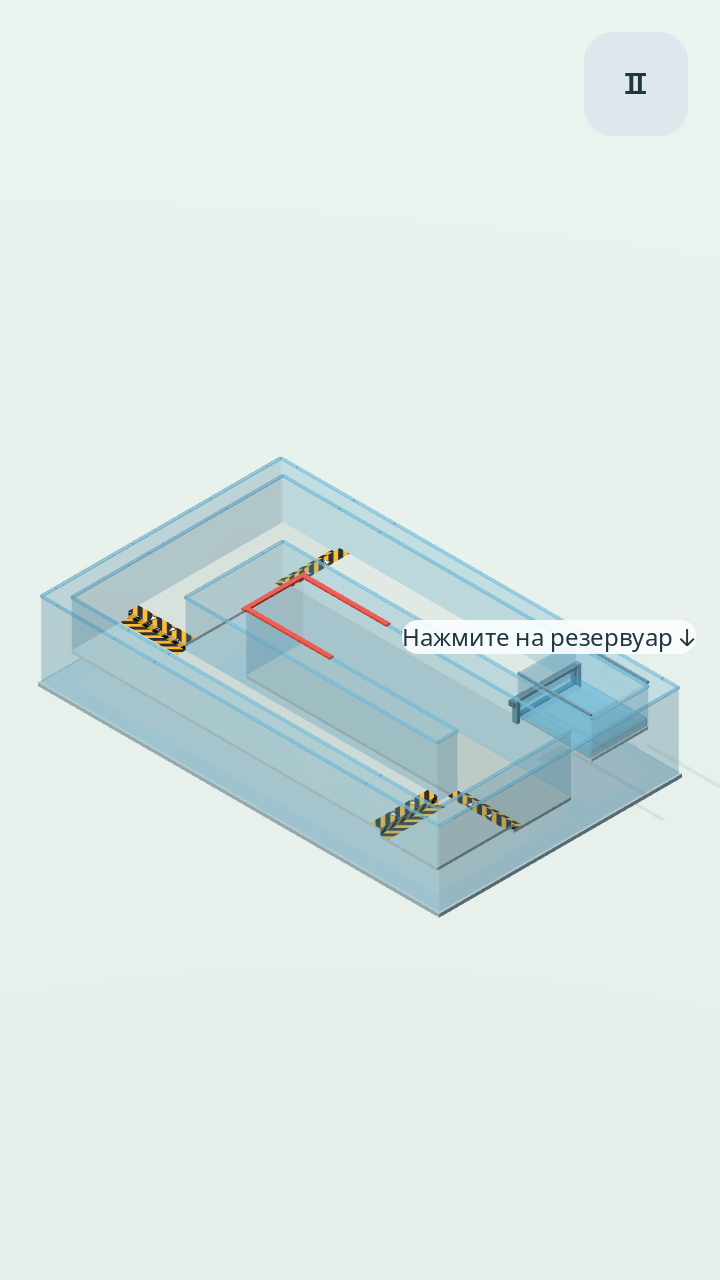
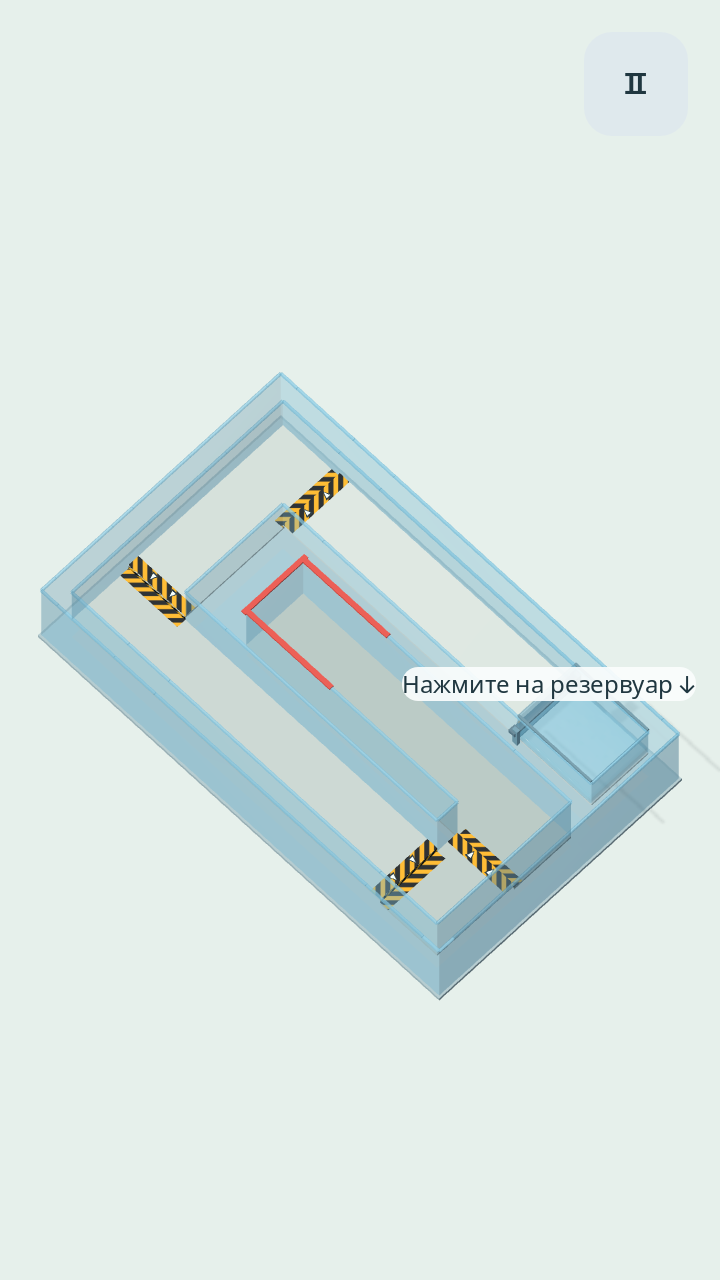
Raise rotation camera and soften water shading

Changed region(s): [[0.0306, 0.2812, 0.9472, 0.7812]]

diff --git a/docs/SPECIFICATION.ru.md b/docs/SPECIFICATION.ru.md
@@ -4,7 +4,7 @@
 
 Игра для Android с управлением жидкостью через наклон мобильного устройства. Игрок меняет направление действия силы тяжести, переливает жидкость по каналам и доставляет её в заданный сосуд. Вода может делиться на потоки, проходить через узкие отверстия, разбрызгиваться, стекать по ступеням, замерзать и испаряться.
 
-**Вода — единственная жидкость десятиуровневого демонстрационного прототипа.** Финальная игра может включать жидкости с различными физическими свойствами и уровни на их смешивание, разделение и взаимодействие. Это часть продуктовой концепции, а не уже реализованная возможность версии 0.8.
+**Вода — единственная жидкость десятиуровневого демонстрационного прототипа.** Финальная игра может включать жидкости с различными физическими свойствами и уровни на их смешивание, разделение и взаимодействие. Это часть продуктовой концепции, а не уже реализованная возможность версии 0.9.
 
 ## Визуальное направление
 
@@ -18,9 +18,9 @@
 4. После удержания требуемого объёма приёмник подсвечивается; поток продолжает доливаться до 0,5 с без заметного пополнения, но не дольше 2 с. До этого окно результата скрыто. Пауза останавливает воду и задержку.
 5. Игрок может перезапустить уровень и попробовать другой маршрут или темп.
 
-Перезапуск и выход доступны в паузе; язык, чувствительность, выбор способа управления и настройка визуального наклона поля — в настройках главного меню. При сворачивании приложения симуляция останавливается. Альтернативный режим вращает сам трёхмерный уровень вокруг вертикальной оси под неподвижной ортографической камерой с истинной изометрией (45° по азимуту, около 35,264° по высоте). Камера не кренится и не меняет масштаб; жест проецируется на плоскость поля. Гравитация вдоль игрового рельефа направлена вниз экрана. Ориентация сохраняется после отпускания и паузы; повтор сбрасывает её. Этот режим помогает при отсутствии датчика; клавиатура предназначена для разработки.
+Перезапуск и выход доступны в паузе; язык, чувствительность, выбор способа управления и настройка визуального наклона поля — в настройках главного меню. При сворачивании приложения симуляция останавливается. Альтернативный режим вращает сам трёхмерный уровень вокруг вертикальной оси под неподвижной ортографической камерой с более высоким ракурсом (45° по азимуту, 65° по высоте). Дно каждого канала текущего уровня видно из центра канала на всём обороте поля. Камера не кренится и не меняет масштаб; жест проецируется на плоскость поля. Гравитация вдоль игрового рельефа направлена вниз экрана. Ориентация сохраняется после отпускания и паузы; повтор сбрасывает её. Этот режим помогает при отсутствии датчика; клавиатура предназначена для разработки.
 
-## Версия 0.8 — первый уровень
+## Версия 0.9 — первый уровень
 
 **«Первый виток»**: трёхмерный террасный спиральный канал с полным оборотом на 360° и центральным сосудом. Маршрут: вниз, вправо, вверх, влево, снова вниз. Диагональные наклоны помогают провести растянутый поток через повороты. Порог победы — 80% частиц воды в приёмнике непрерывно в течение 0,75 с. Верхних ограничений по времени и штрафов нет. У канала четыре перепада высоты по 0,14. Вода может выплеснуться над конечными бортиками. Если остаток меньше 80% исходного объёма, открывается окно повторной попытки.
 
@@ -35,7 +35,7 @@
 - Подготовка с закрытым резервуаром, вылет и вращение крышки выпускного отверстия по нажатию с открытием физического прохода, игра, пауза, победа и повтор. Перезапуск снова закрывает резервуар.
 - Настройки в стиле Material: отдельные карточки языка, управления, чувствительности и обратной связи, крупные зоны касания, переключатели, сегментный выбор управления, ползунок с числом и сенсорная прокрутка без видимой полосы. Возврат в меню закреплён внизу.
 - Собственные мягкие звуки нажатий (тише событий уровня на 6 дБ), открытия, победы и потери; общий выключатель звука и сохранение настроек.
-- Более косой ракурс, голубые кромки бортов, непрерывная жёлто-чёрная разметка верхнего края, вертикальной грани и нижней площадки ступеней с обратным направлением штриховки после перепада и стрелками спуска и градация цвета дна по высоте. Только открытые грани геометрии; менее контрастные тени без дублирования поверхностей. Вода не отбрасывает и не принимает тени; кромки приёмника не затемняют жидкость.
+- Более косой ракурс, голубые кромки бортов, непрерывная жёлто-чёрная разметка верхнего края, вертикальной грани и нижней площадки ступеней с обратным направлением штриховки после перепада и стрелками спуска и градация цвета дна по высоте. Только открытые грани геометрии; менее контрастные тени без дублирования поверхностей. Вода не отбрасывает и не принимает тени; кромки приёмника не затемняют жидкость. Отражения на краях воды осветлены, непрозрачность смягчена, заполняющий свет уменьшает затемнение крутых граней потока.
 - Тестовый APK для Android API 24+, ARM64 / x86_64, без сетевых разрешений.
 
 Геометрия уровня хранится в ресурсе независимо от физики; параметры жидкости — в отдельном `LiquidProfile`. Такая организация позволяет менять свойства, но **не реализует автоматически** совместную физику нескольких материалов. Перед смешиванием / разделением понадобится определить пары взаимодействия, сохранение массы компонентов, растворимость, плотность массы и правила фазовых переходов.
@@ -46,7 +46,7 @@
 
 | № | Название | Основная механика | Статус |
 | --- | --- | --- | --- |
-| 1 | Первый виток | Полный виток по спирали, диагональные наклоны, переливание | Реализован в 0.8 |
+| 1 | Первый виток | Полный виток по спирали, диагональные наклоны, переливание | Реализован в 0.9 |
 | 2 | Повороты | Извилистый маршрут и точность движения | Запланирован |
 | 3 | Узкое горлышко | Вода проходит через малое отверстие | Запланирован |
 | 4 | Развилка | Разделение и повторный сбор потока | Запланирован |

diff --git a/docs/VALIDATION.md b/docs/VALIDATION.md
@@ -1,6 +1,18 @@
 # Проверки прототипа
 
-## Версия 0.8.0
+## Версия 0.9.0
+
+- **115 проверок физики и логики и 59 проверок настоящего OpenGL-рендеринга и касаний — 174 проверки, 0 ошибок.** Сохранены проходимость, баланс массы, жесты, выпуск, пауза, оба языка и обновление настроек.
+- Камера вращения поднята с 35,264° до **65°** над плоскостью уровня, азимут 45°. Масштаб, центр и ориентация камеры остаются постоянными. Проверка луча от центра каждого канала к камере проходит во всех **36 положениях** через 10°: ближняя стенка не закрывает центр дна текущего уровня. Полный объём помещается на экранах 720×1280, 720×1600 и при масштабировании 450×1000.
+- Сравнение одного замороженного потока с настоящими тенями, без них и с разными материалами показало, что выраженное затемнение создаёт сам материал воды. Осветлены отражения на краях, уменьшена непрозрачность, добавлен слабый заполняющий свет для крутых граней. Отражения окружения и зависимость цвета от глубины сохранены.
+- В контрольном сравнении на прежнем наборе затемнённых пикселей среднее потемнение относительно сухого дна снизилось с **0,1507 до 0,0825**, примерно на **45%**. Отдельная регрессионная проверка игрового кадра получила **0,08251** среднего потемнения по 10856 отсчётам и **0,18352** среднего превышения синего над красным: вода остаётся видимой и голубой. Это сравнение нормированной яркости пикселей одного рендерера; оно не заменяет оценку дисплея телефона.
+- Изменены камера и изображение воды; нативная модель, скорость потока, вязкость, натяжение и счётчик объёма сохранены. Полный физический маршрут доставил **87,610%**, игровой контроллер вращения — **97,388%**. Сценарии различаются выпуском и временем доливания перед результатом.
+- Автономная Linux-сборка запущена вне исходников; новый ракурс и материалы загружаются, контрольный кадр сохранён.
[1 lines of base64/hex data omitted]
+
+Две пользовательские записи 0.8.0 использованы для анализа затемнения и перекрытия каналов при вращении. Новая версия 0.9.0 ещё не проверялась на физическом Android-устройстве. Новых уровней в этой сборке нет.
+
+## Архив: версия 0.8.0
 
 - **114 проверок физики и логики, 0 ошибок.** Дополнительно проверены ускорение при одинаковом реальном времени, скоростные диагональные контакты во всех четырёх углах, полный объём приёмника у стенки и выше прежней отсечки 0,34, точный баланс маркеров, адресное открытие источника, неподвижная камера и продолжение потока перед результатом.
 - **58 проверок настоящего OpenGL-рендеринга и касаний, 0 ошибок.** Касание пустого места не открывает резервуар; касание повёрнутого резервуара открывает именно его. Общая кнопка выпуска удалена. Проверены круговые жесты в плоскости уровня, обратный поворот, сохранение угла, масштабированный экран 450×1000, пауза, наклон телефона, оба языка и полный маршрут.
